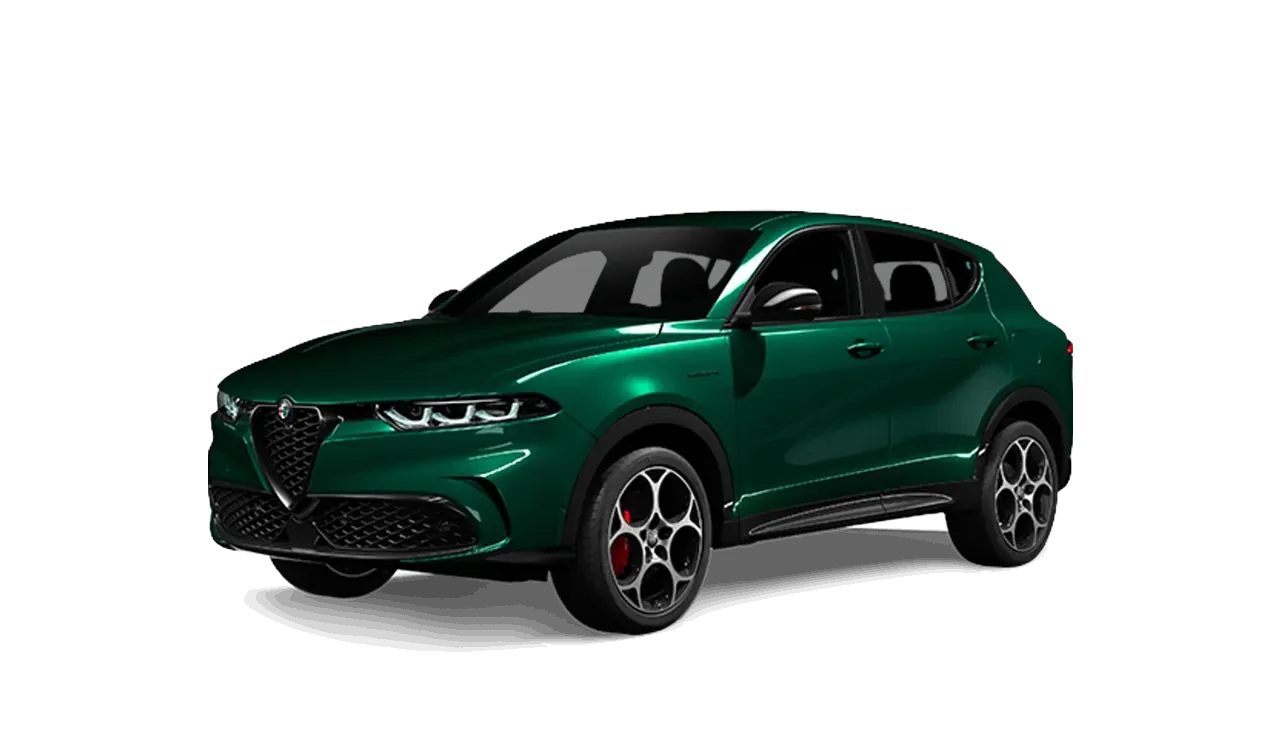
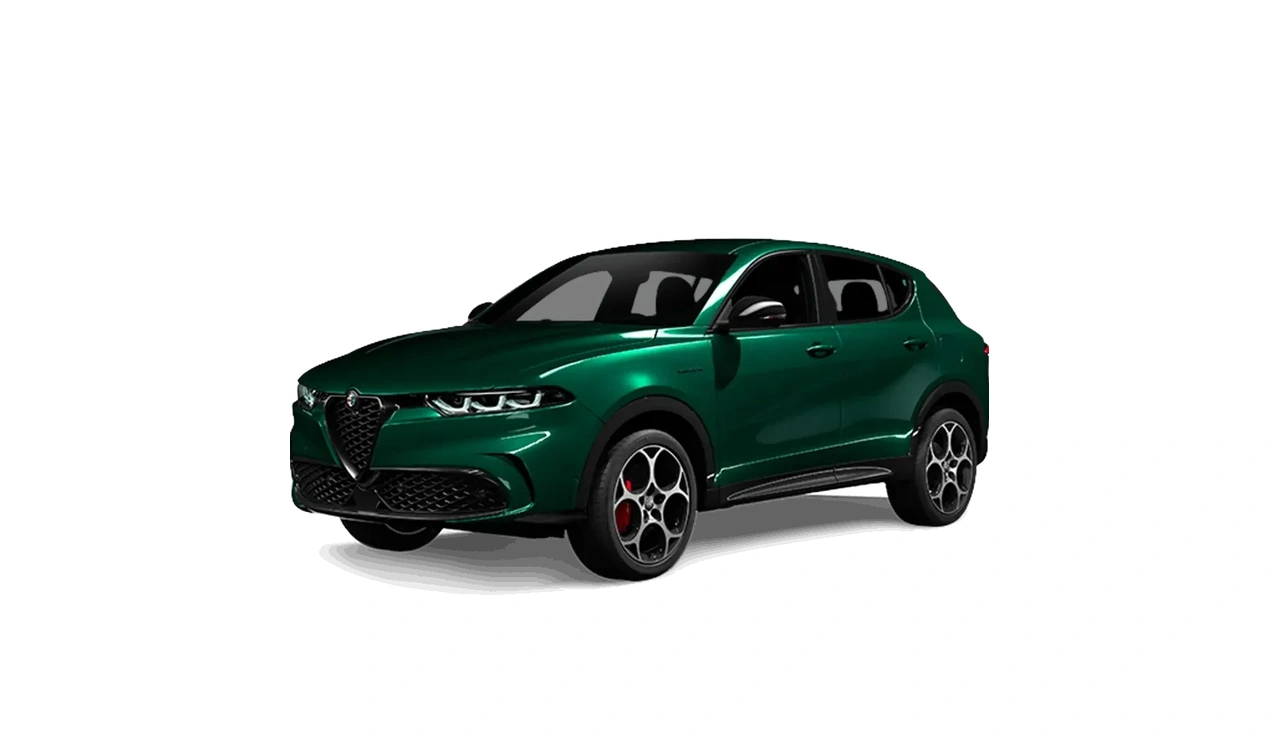
rxauto-web: tlačítko Spočítat cenu zpět mezi fotky (pulz, hover), sjednocené dlaždice GLE/CLE/Tonale, kód stránky Flexibilní pronájem
Claude-Session: https://claude.ai/code/session_01TX2QjaX4vGH8pP4arngu1y

Changed region(s): [[0.1562, 0.2782, 0.8438, 0.8965]]

diff --git a/rxauto-web/konfigurator/velo/page-flexibilni-pronajem.js b/rxauto-web/konfigurator/velo/page-flexibilni-pronajem.js
@@ -1,0 +1,28 @@
+// Flexibilní pronájem (/dlouhodoby-pronajem) – kód stránky (Wix page code, q27nr.js)
+// - výpis „Auta v nabídce“ (opakovač #carRepeater, dataset #dataset1): dataset v editoru zobrazuje jen omezený
+//   počet položek – v kódu ho navýšíme, aby se ukázaly všechny vozy s landingPage = ano
+// - tlačítko #button8 „Spočítat cenu“ (prostřední sloupec mezi fotkami, odkaz na /konfigurator):
+//   výrazný styl, šipka, jemné pulzování a hover efekt, aby bylo jasné, že jde o tlačítko
+import wixAnimations from 'wix-animations';
+
+$w.onReady(function () {
+  $w('#dataset1').onReady(() => {
+    $w('#dataset1').setPageSize(30);
+  });
+
+  const btn = $w('#button8');
+  btn.label = 'Spočítat cenu →';
+  const zakladni = { backgroundColor: '#000000', color: '#FFFFFF', borderColor: '#000000' };
+  const hover = { backgroundColor: '#FFFFFF', color: '#000000', borderColor: '#000000' };
+  const nastav = (s) => { Object.keys(s).forEach((k) => { btn.style[k] = s[k]; }); };
+  btn.style.borderWidth = '2px';
+  btn.style.borderRadius = '26px';
+  nastav(zakladni);
+
+  const puls = wixAnimations.timeline({ repeat: -1, yoyo: true });
+  puls.add(btn, { scale: 1.07, duration: 900, easing: 'easeInOutSine' });
+  puls.play();
+
+  btn.onMouseIn(() => { puls.pause(); nastav(hover); });
+  btn.onMouseOut(() => { nastav(zakladni); puls.play(); });
+});

diff --git a/rxauto-web/obrazky/normalizuj_dlazdici.py b/rxauto-web/obrazky/normalizuj_dlazdici.py
@@ -1,0 +1,34 @@
+"""Sjednocení dlaždic aut pro web (stejná velikost jako fotky Škoda).
+
+Dlaždice 1280×744, bílé pozadí; auto (bbox nebílých pixelů) zmenšené/zvětšené tak, aby mělo
+57 % šířky, max. 48 % výšky, vodorovně na střed, spodek kol v 80 % výšky.
+Použití: python3 normalizuj_dlazdici.py vstup.webp vystup.webp
+"""
+import sys
+from PIL import Image, ImageChops
+
+TW, TH = 1280, 744
+SIRKA, VYSKA, SPODEK, PRAH = 0.57, 0.48, 0.80, 238
+
+
+def normalizuj(src, dst):
+    im = Image.open(src).convert("RGBA")
+    bg = Image.new("RGBA", im.size, (255, 255, 255, 255))
+    im = Image.alpha_composite(bg, im).convert("RGB")
+    # pixel je „auto“, když aspoň jeden kanál <= PRAH
+    r, g, b = [c.point(lambda v: 255 if v <= PRAH else 0) for c in im.split()]
+    maska = ImageChops.lighter(ImageChops.lighter(r, g), b)
+    box = maska.getbbox()
+    auto = im.crop(box)
+    bw, bh = auto.size
+    s = min(SIRKA * TW / bw, VYSKA * TH / bh)
+    dw, dh = round(bw * s), round(bh * s)
+    auto = auto.resize((dw, dh), Image.LANCZOS)
+    out = Image.new("RGB", (TW, TH), (255, 255, 255))
+    out.paste(auto, ((TW - dw) // 2, round(SPODEK * TH - dh)))
+    out.save(dst, "WEBP", quality=95)
+    return box, (dw, dh)
+
+
+if __name__ == "__main__":
+    print(normalizuj(sys.argv[1], sys.argv[2]))

diff --git a/rxauto-web/README.md b/rxauto-web/README.md
@@ -63,3 +63,11 @@ Nová stránka /konfigurator (Velo + vlastní prvek, ceník v CMS, dostupnost z 
 Detail v `konfigurator/README.md`. Tlačítko „Vybrat auto“ na /dlouhodoby-pronajem přejmenováno na „Spočítat cenu“ → /konfigurator.
 - 2026-11-06: po zapnutí Dev Mode Publish hlásil chybu buildu v původním kódu stránky Flotila (`public/pages/ie56l.js`,
   ř. 13 – tři nadbytečné „(“ v podmínce filtrů). Opraveno v editoru, jiné chyby kód nehlásí.
+- 2026-11-06 večer:
+  - Landing „Auta v nabídce“ – v CMS Auta přidán GLE a landingPage = ano i pro Tonale, CLE, 3008, Boxer;
+    dataset1 v editoru omezuje počet položek → v kódu stránky `setPageSize(30)` (`konfigurator/velo/page-flexibilni-pronajem.js`).
+  - Tlačítko „Spočítat cenu →“ (#button8, odkaz /konfigurator) vráceno do prostředního bílého sloupce mezi fotkami
+    (section2 → columnStrip7 → column25), 170×52, černé, zaoblené, pulzuje (wix-animations), hover = invertní barvy.
+  - Dlaždice GLE / CLE / Tonale sjednoceny se Škodami: 1280×744, bílé pozadí, auto 57 % šířky (max. 48 % výšky),
+    spodek kol v 80 % výšky – `obrazky/normalizuj_dlazdici.py`. GLE je AI fotka (bílé pozadí, SPZ „GLE 2025“).
+    Peugeot 3008 má zdroj jen 420×349 a v kartě je větší než ostatní – chce to lepší fotku.
